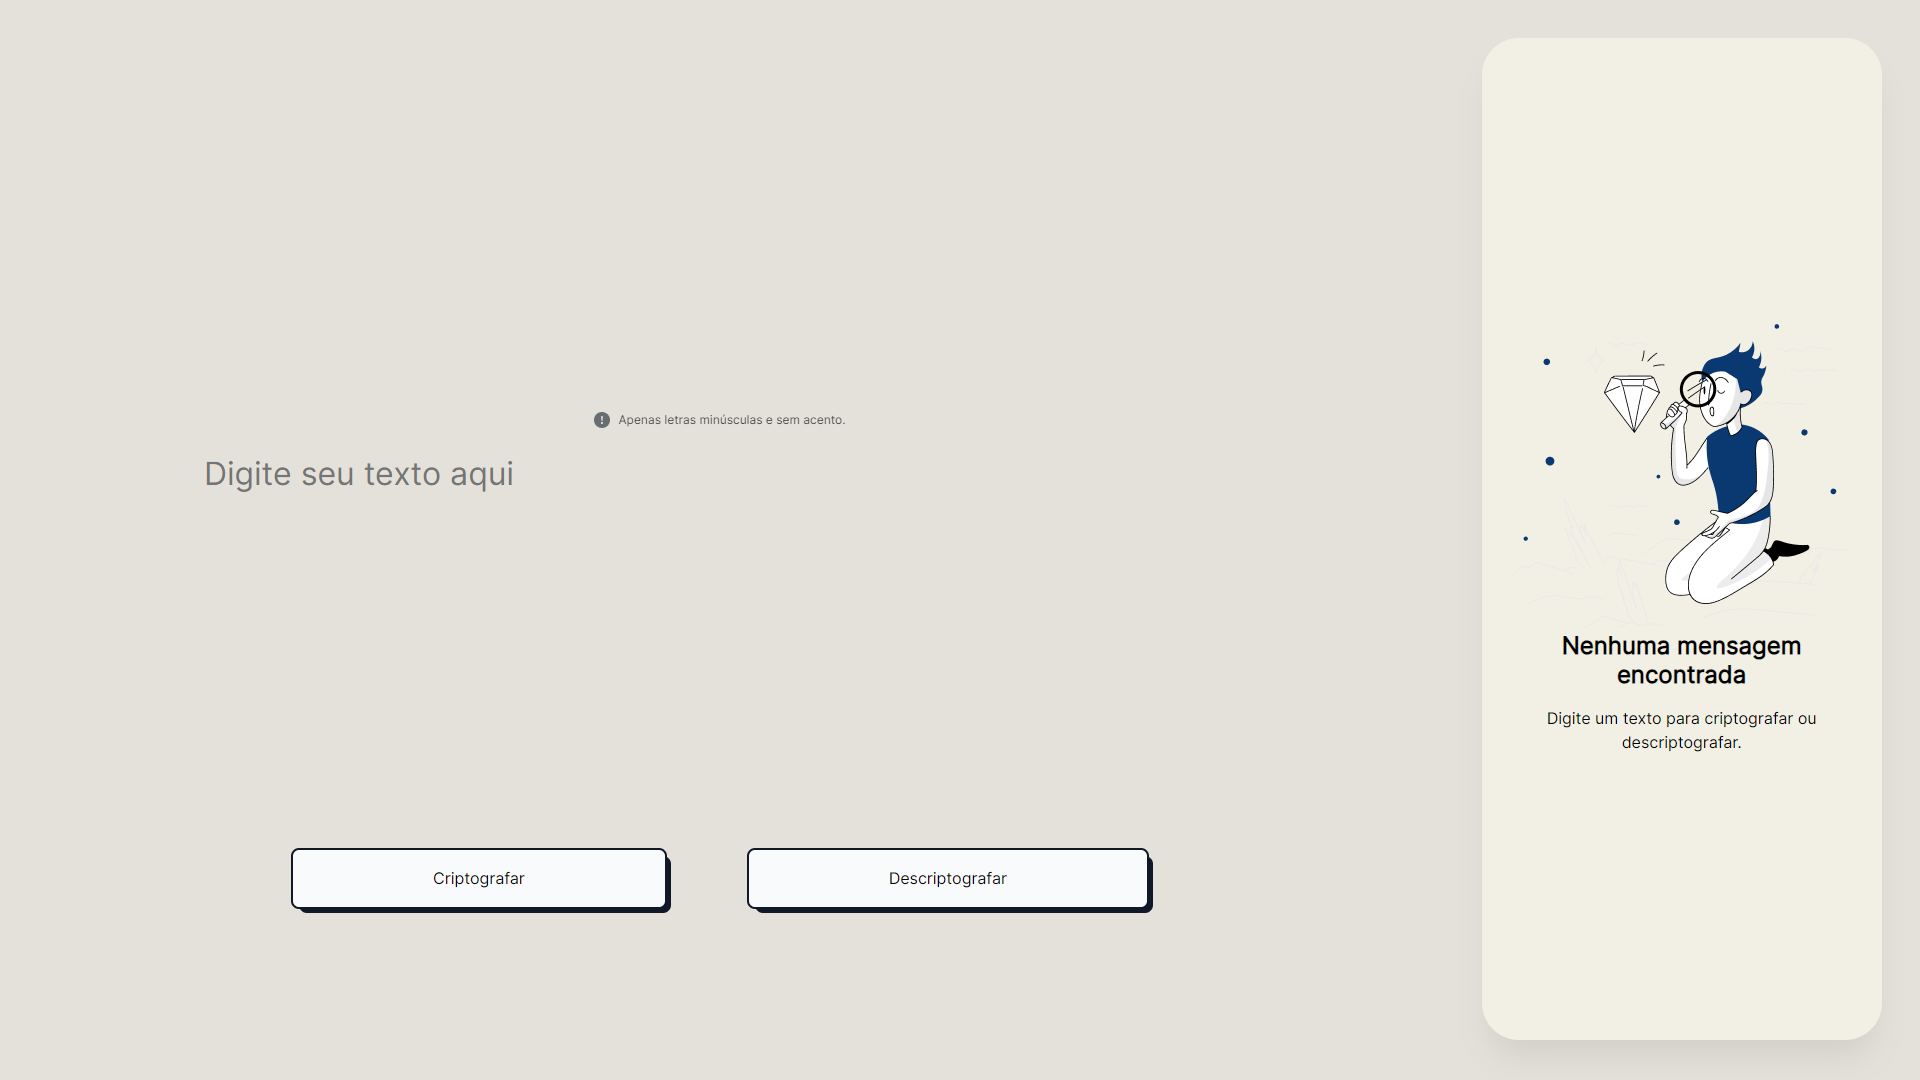
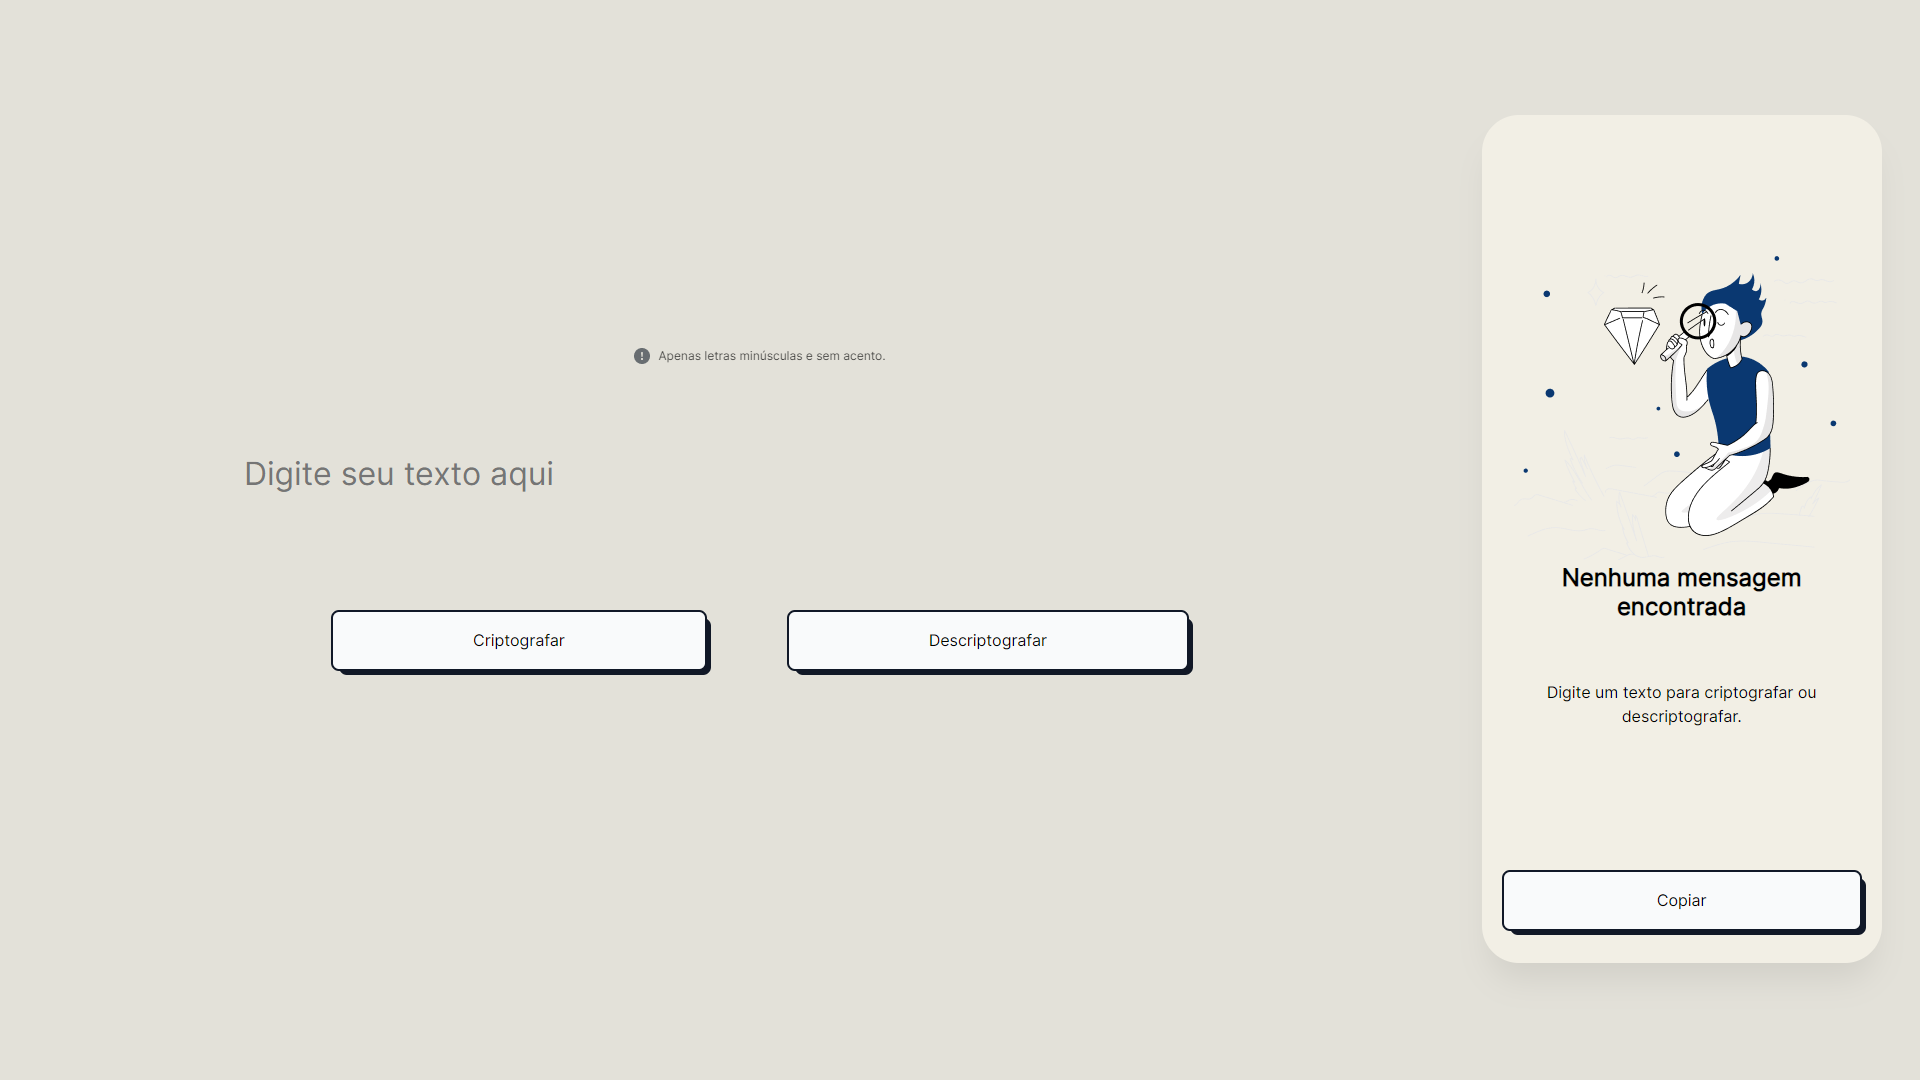
ajustei algumas coisa como por ex query foto e possições

diff --git a/style.css b/style.css
@@ -30,6 +30,7 @@ body {
     box-sizing: border-box;
     background: var(--terciaria);
     color: var(--preto);
+    overflow: auto;
 }
 
 /* Contêiner Principal */
@@ -39,7 +40,7 @@ main {
     align-items: center;
     justify-content: space-between;
     min-height: 92.7vh; /* Alterado de height para min-height */
-    overflow: auto;
+    
 }
 
 /* Contêiner da Seção */
@@ -57,6 +58,8 @@ section {
 .texto {
     display: flex;
     flex-direction: column;
+    justify-content: center;
+    align-items: center;
     text-align: center;
     margin: auto;
     width: 80%;
@@ -96,6 +99,7 @@ section {
     overflow: hidden;
     height: auto;
     word-wrap: break-word;
+    margin:  2em;
 }
 
 /* Estilos do Botão */
